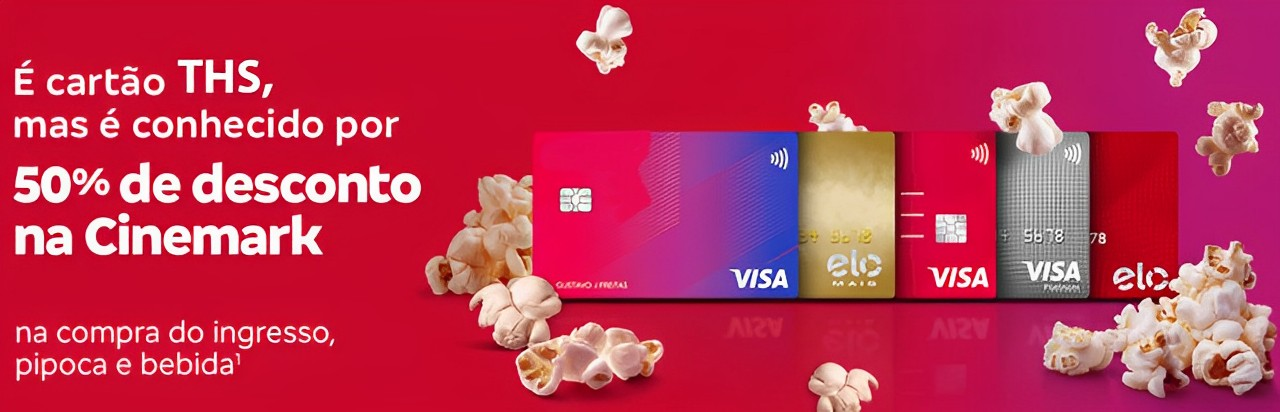
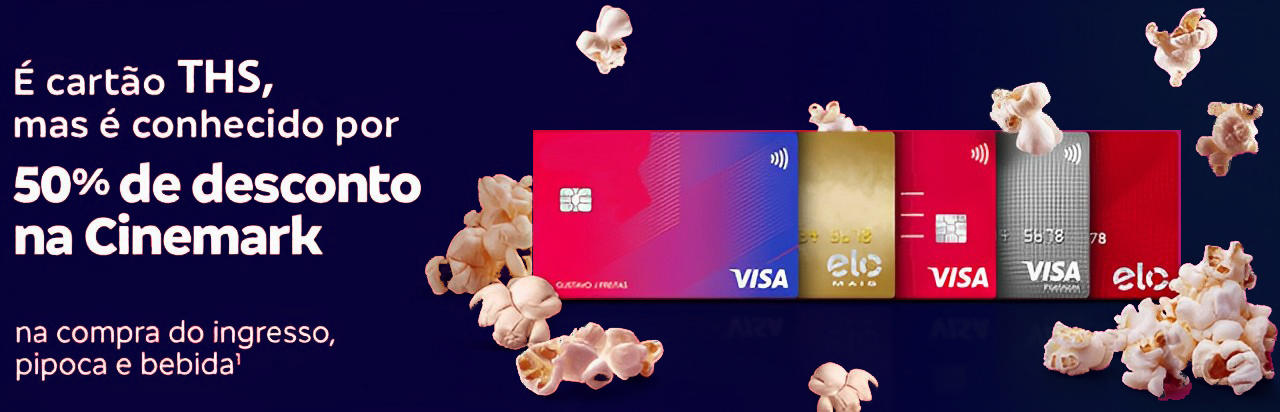
atualizacao

diff --git a/public/index.html b/public/index.html
@@ -2,9 +2,9 @@
 <html lang="en">
   <head>
     <meta charset="utf-8" />
-    <link rel="icon" href="%PUBLIC_URL%/favicon.ico" />
+    <link rel="icon" href="./logo.png " />
     <meta name="viewport" content="width=device-width, initial-scale=1" />
-    <meta name="theme-color" content="#000000" />
+    <meta name="theme-color" content="#001B52" />
     <meta
       name="description"
       content="Web site created using create-react-app"
@@ -24,7 +24,7 @@
       work correctly both with client-side routing and a non-root public URL.
       Learn how to configure a non-root public URL by running `npm run build`.
     -->
-    <title>React App</title>
+    <title>THS</title>
   </head>
   <body>
     <noscript>You need to enable JavaScript to run this app.</noscript>
